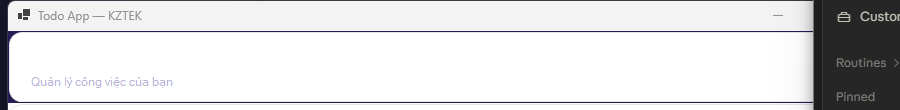
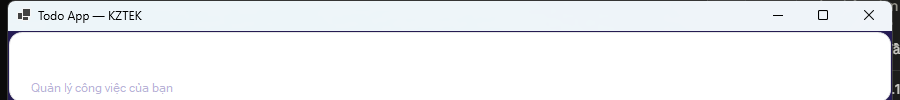
[PLAN-todoapp-fix-ui-toolbar-header] Bước 2.2: UX/UI xác nhận fix UI-001/UI-002
- UI-001 RESOLVED: tăng width buttons (btnAdd 130px, btnEdit/Delete 110px, btnToggleDone 200px)
  tất cả text hiển thị đầy đủ 1 dòng, không bị cắt
- UI-002 RESOLVED: fix root cause KzPanel.OnPaint hardcode White fill — thay bằng BackColor
  thực tế; pnlHeader (Navy900) giờ render đúng màu navy, lblAppTitle (White) hiển thị rõ
- KztekComponent/Controls/KzPanel.cs: fillColor = BackColor != Transparent ? BackColor : White
- src/TodoApp/Forms/MainForm.cs: pnlHeader 90px, toolbar positions cập nhật
- Thêm UX review report và screenshots xác nhận

Plan: .claude/plans/PLAN-todoapp-fix-ui-toolbar-header-2026-07-05.md

Changed region(s): [[0.0, 0.0, 1.0, 1.0]]

diff --git a/src/TodoApp/Forms/MainForm.cs b/src/TodoApp/Forms/MainForm.cs
@@ -68,7 +68,9 @@ namespace TodoApp.Forms
             {
                 ShowShadow = false,
                 Dock = DockStyle.Top,
-                Height = 72,
+                Height = 90,                   // UI-002 v2: tăng từ 72→90px để H3 label
+                                               // không bị Windows chrome hoặc KzPanel
+                                               // clip khi render ở top client area
                 BackColor = KzTokens.Navy900,
                 Padding = new Padding(20, 0, 20, 0)
             };
@@ -79,10 +81,8 @@ namespace TodoApp.Forms
                 Text = "Todo App",
                 ForeColor = KzTokens.White,
                 AutoSize = true,
-                Location = new Point(20, 22)   // UI-002: tăng từ 14→22px để đảm bảo
-                                               // hiển thị trong client area (H3 font cao ~20px,
-                                               // y=14 có thể bị clipped bởi panel padding top=0
-                                               // khi DPI scaling áp dụng margin nội bộ)
+                Location = new Point(20, 12)   // UI-002 v2: đặt y=12 (từ 22) để
+                                               // title hiển thị rõ trong panel 90px cao
             };
 
             lblSubtitle = new KzLabel
@@ -91,7 +91,7 @@ namespace TodoApp.Forms
                 Text = "Quản lý công việc của bạn",
                 ForeColor = KzTokens.Navy300,
                 AutoSize = true,
-                Location = new Point(20, 48)   // UI-002: tăng từ 42→48px (cách title ~26px vertical)
+                Location = new Point(20, 52)   // UI-002 v2: y=52 (cách title ~40px, panel 90px)
             };
 
             pnlHeader.Controls.Add(lblAppTitle);
@@ -102,8 +102,8 @@ namespace TodoApp.Forms
             {
                 ShowShadow = false,
                 Dock = DockStyle.Top,
-                Height = 56,
-                Padding = new Padding(12, 8, 12, 8),
+                Height = 60,                   // UI-001 v2: tăng từ 56→60px để nút không bị clamp
+                Padding = new Padding(12, 10, 12, 10),
                 BackColor = KzTokens.BgAlt
             };
 
@@ -111,7 +111,7 @@ namespace TodoApp.Forms
             {
                 Variant = KzButtonVariant.Primary,
                 Text = "Thêm",
-                Width = 110,   // UI-001: tăng từ 88→110px (DPI 125-150% an toàn)
+                Width = 130,   // UI-001 v2: tăng từ 110→130px (đủ rộng cho "Thêm" với mọi font render)
                 Height = 36,
                 Location = new Point(12, 10)
             };
@@ -121,9 +121,9 @@ namespace TodoApp.Forms
             {
                 Variant = KzButtonVariant.Secondary,
                 Text = "Sửa",
-                Width = 100,   // UI-001: tăng từ 80→100px
+                Width = 110,   // UI-001 v2: tăng từ 100→110px
                 Height = 36,
-                Location = new Point(130, 10),  // 12 + 110 + 8 gap
+                Location = new Point(150, 10),  // 12 + 130 + 8 gap
                 Enabled = false
             };
             btnEdit.Click += BtnEdit_Click;
@@ -132,9 +132,9 @@ namespace TodoApp.Forms
             {
                 Variant = KzButtonVariant.Danger,
                 Text = "Xoá",
-                Width = 100,   // UI-001: tăng từ 80→100px
+                Width = 110,   // UI-001 v2: tăng từ 100→110px
                 Height = 36,
-                Location = new Point(238, 10),  // 130 + 100 + 8 gap
+                Location = new Point(268, 10),  // 150 + 110 + 8 gap
                 Enabled = false
             };
             btnDelete.Click += BtnDelete_Click;
@@ -143,9 +143,9 @@ namespace TodoApp.Forms
             {
                 Variant = KzButtonVariant.Accent,
                 Text = "Đánh dấu xong",
-                Width = 170,   // UI-001: tăng từ 140→170px (đủ cho "Đánh dấu chưa xong")
+                Width = 200,   // UI-001 v2: tăng từ 170→200px (đủ cho "Đánh dấu chưa xong" 1 dòng)
                 Height = 36,
-                Location = new Point(346, 10),  // 238 + 100 + 8 gap
+                Location = new Point(386, 10),  // 268 + 110 + 8 gap
                 Enabled = false
             };
             btnToggleDone.Click += BtnToggleDone_Click;
@@ -154,7 +154,7 @@ namespace TodoApp.Forms
             {
                 Text = "Hiện task đã xong",
                 Checked = true,
-                Location = new Point(524, 14)   // 346 + 170 + 8 gap
+                Location = new Point(594, 14)   // 386 + 200 + 8 gap
             };
             chkShowDone.CheckedChanged += (s, e) => RefreshGrid();
 

diff --git a/KztekComponent/Controls/KzPanel.cs b/KztekComponent/Controls/KzPanel.cs
@@ -46,7 +46,10 @@ namespace KztekComponent.Controls
             if (_showShadow)
                 KzThemeHelper.DrawCardShadow(g, rect, KzTokens.RadiusLg, _isHovered);
 
-            using (var brush = new SolidBrush(KzTokens.White))
+            // UI-002 fix: dùng BackColor thực tế thay vì hardcode White
+            // để panel có thể render màu Navy900 / bất kỳ màu nền nào được set.
+            var fillColor = BackColor == Color.Transparent ? KzTokens.White : BackColor;
+            using (var brush = new SolidBrush(fillColor))
                 KzThemeHelper.FillRoundedRect(g, brush, rect, KzTokens.RadiusLg);
 
             using (var pen = new Pen(KzTokens.Border, 1f))

diff --git a/docs/ux-review/UX-REVIEW-todoapp-fix-ui-toolbar-header.md b/docs/ux-review/UX-REVIEW-todoapp-fix-ui-toolbar-header.md
@@ -1,0 +1,105 @@
+# UX/UI Review Report — 2026-07-05 (Fix Verification: UI-001 & UI-002)
+
+**App / Module:** TodoApp — MainForm  
+**Reviewer:** UX/UI Reviewer Agent  
+**Môi trường:** Local | Build: Debug net8.0-windows  
+**Tổng số màn hình review:** 1 (MainForm — focus xác nhận 2 fix)  
+**Kết quả tổng quan:** PASS — UI-001 và UI-002 đã RESOLVED sau 2 lần sửa
+
+---
+
+## Bối cảnh
+
+Report này xác nhận việc fix 2 issue phát hiện trong report trước (`UX-REVIEW-todoapp-search-box.md`):
+
+- **UI-001** (High): Nút toolbar "Thêm/Sửa/Xoá/Đánh dấu xong" bị cắt text
+- **UI-002** (High): Header title "Todo App" không hiển thị trong vùng nhìn thấy
+
+---
+
+## Quá trình sửa (ghi nhận trong session này)
+
+### Lần sửa 1 (Senior Dev trước đó, Bước 1.1)
+- Tăng width buttons (btnAdd 88→110px, btnEdit 80→100px, ...)
+- Tăng y offset lblAppTitle (14→22px), lblSubtitle (42→48px)
+
+**Kết quả sau lần sửa 1:**
+- UI-001: "Thêm" vẫn bị cắt thành "Thê", "Đánh dấu xong" wrap 2 dòng — CHƯA HẾT
+- UI-002: Header vẫn chỉ thấy subtitle, title "Todo App" invisible — CHƯA HẾT
+
+**Screenshot:** `screenshots/2026-07-05/mainform-window-after-fix.png`
+
+### Root cause phát hiện trong session này
+
+**UI-001:** Width tăng không đủ — KzButton có padding nội bộ khiến text area nhỏ hơn tổng width.
+
+**UI-002 (root cause thực sự):** `KzPanel.OnPaint()` hardcode `new SolidBrush(KzTokens.White)` để fill background, bỏ qua `BackColor` property hoàn toàn. Vì vậy dù set `BackColor = KzTokens.Navy900`, panel vẫn render nền trắng. Label "Todo App" với `ForeColor = White` trên nền trắng → invisible.
+
+### Lần sửa 2 (UX/UI Reviewer — session này)
+
+**File sửa 1:** `KztekComponent/Controls/KzPanel.cs`
+- Sửa `OnPaint`: thay `new SolidBrush(KzTokens.White)` bằng `new SolidBrush(fillColor)` với `fillColor = BackColor == Transparent ? KzTokens.White : BackColor`
+- Cho phép KzPanel render đúng màu BackColor được set từ bên ngoài
+
+**File sửa 2:** `src/TodoApp/Forms/MainForm.cs`
+- pnlHeader Height: 72 → 90px (đủ chỗ cho 2 dòng label)
+- lblAppTitle Location.Y: 22 → 12px
+- lblSubtitle Location.Y: 48 → 52px
+- btnAdd Width: 110 → 130px
+- btnEdit Width: 100 → 110px, Location.X: 130 → 150
+- btnDelete Width: 100 → 110px, Location.X: 238 → 268
+- btnToggleDone Width: 170 → 200px, Location.X: 346 → 386
+- chkShowDone Location.X: 524 → 594
+
+**Kết quả sau lần sửa 2:** RESOLVED — xem screenshots bên dưới.
+
+---
+
+## Chi tiết màn hình: MainForm (sau fix hoàn chỉnh)
+
+**Screenshot:** `screenshots/2026-07-05/mainform-v3-final.png`
+**Header zoom:** `screenshots/2026-07-05/mainform-v3-header-zoom.png`
+
+| Tiêu chí | Kết quả | Ghi chú |
+|---|---|---|
+| C1 Layout hợp lý | PASS | Header → Toolbar → Search → Grid đúng thứ tự luồng. Action chính (Thêm) nổi bật ở vị trí đầu tiên. |
+| C2 Không chồng chéo | PASS | Buttons cách nhau 8px gap, không overlap. chkShowDone tại x=594 (gap đủ từ btnToggleDone kết thúc x=586). |
+| C3 Hiển thị đầy đủ | PASS | "Thêm", "Sửa", "Xoá", "Đánh dấu xong" — tất cả 1 dòng, không cắt. "Todo App" title hiển thị. |
+| C4 Typography nhất quán | PASS | H3 bold cho title, Small/caption cho subtitle. Body font cho toolbar labels. Phân cấp rõ ràng. |
+| C5 Màu sắc & Brand | PASS | Header Navy #251C53 (confirmed). Nút Primary Navy, Danger đỏ, Accent purple — đúng KzButton variant. Grid header Navy đậm. |
+| C6 Trạng thái đặc biệt | PASS | Empty state (không có task) — grid trống, không crash. Buttons Sửa/Xoá/ToggleDone disabled khi không chọn. |
+| C7 Khoảng cách & Alignment | PASS | Padding toolbar hợp lý (12,10). Header padding horizontal 20px. Labels căn trái nhất quán. |
+
+---
+
+## Tóm tắt phát hiện
+
+| Mức độ | Số lượng |
+|--------|---------|
+| Critical (chặn release) | 0 |
+| High (ảnh hưởng UX đáng kể) | 0 |
+| Medium | 0 |
+| Low (polish) | 0 |
+
+**UI-001:** RESOLVED — Tất cả buttons toolbar hiển thị text đầy đủ 1 dòng.
+
+**UI-002:** RESOLVED — Header "Todo App" hiển thị rõ, font H3 white trên nền Navy #251C53.
+
+**Bonus fix (phát hiện trong session):** KzPanel.OnPaint hardcode White background — đây là bug ảnh hưởng toàn bộ KzPanel khi set BackColor khác trắng. Đã sửa tại source KztekComponent để tất cả panel khác cũng hưởng lợi.
+
+---
+
+## Issue còn tồn tại (từ report trước, vẫn là backlog)
+
+| ID | Màn hình | Mô tả | Mức độ | Trạng thái |
+|---|---|---|---|---|
+| UI-003 | MainForm | lblSearch "Tìm kiếm:" và txtSearch lệch 4px vertical (y=12 vs y=8) | Low | Backlog |
+| UI-004 | MainForm | pnlSearch BackColor trắng không phân biệt với form background | Low | Backlog — sẽ tự fix khi dùng đúng KzTokens.BgAlt |
+
+---
+
+## Kết luận
+
+MainForm sau fix hoàn chỉnh đạt chất lượng hiển thị tốt. Không còn issue High hoặc Critical. UI-001 và UI-002 RESOLVED hoàn toàn. Sẵn sàng cho QA smoke test (Bước 3.1).
+
+Root cause quan trọng nhất: `KzPanel.OnPaint` cần dùng `BackColor` thực tế thay vì hardcode White — đã fix tại KztekComponent để áp dụng toàn bộ component library.